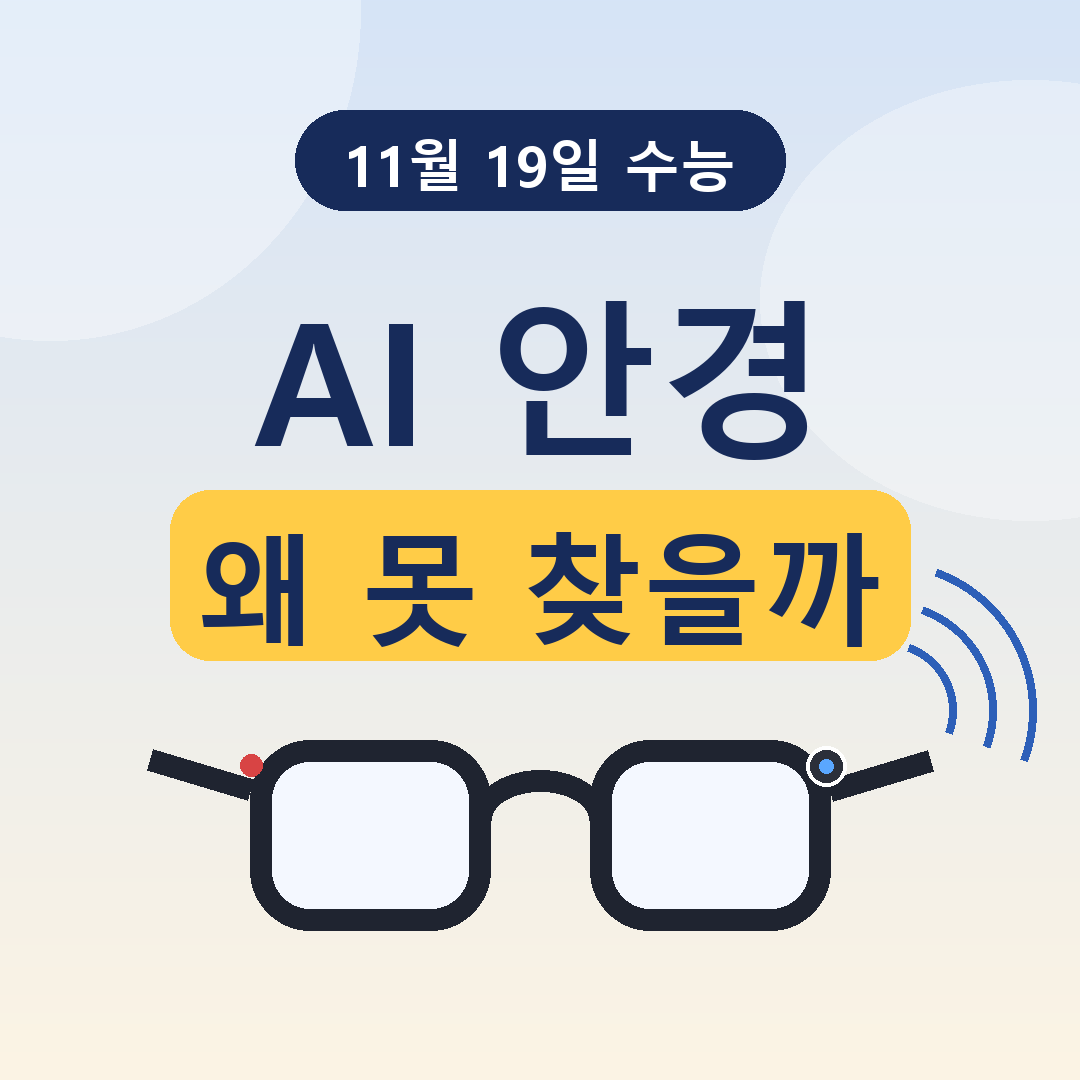
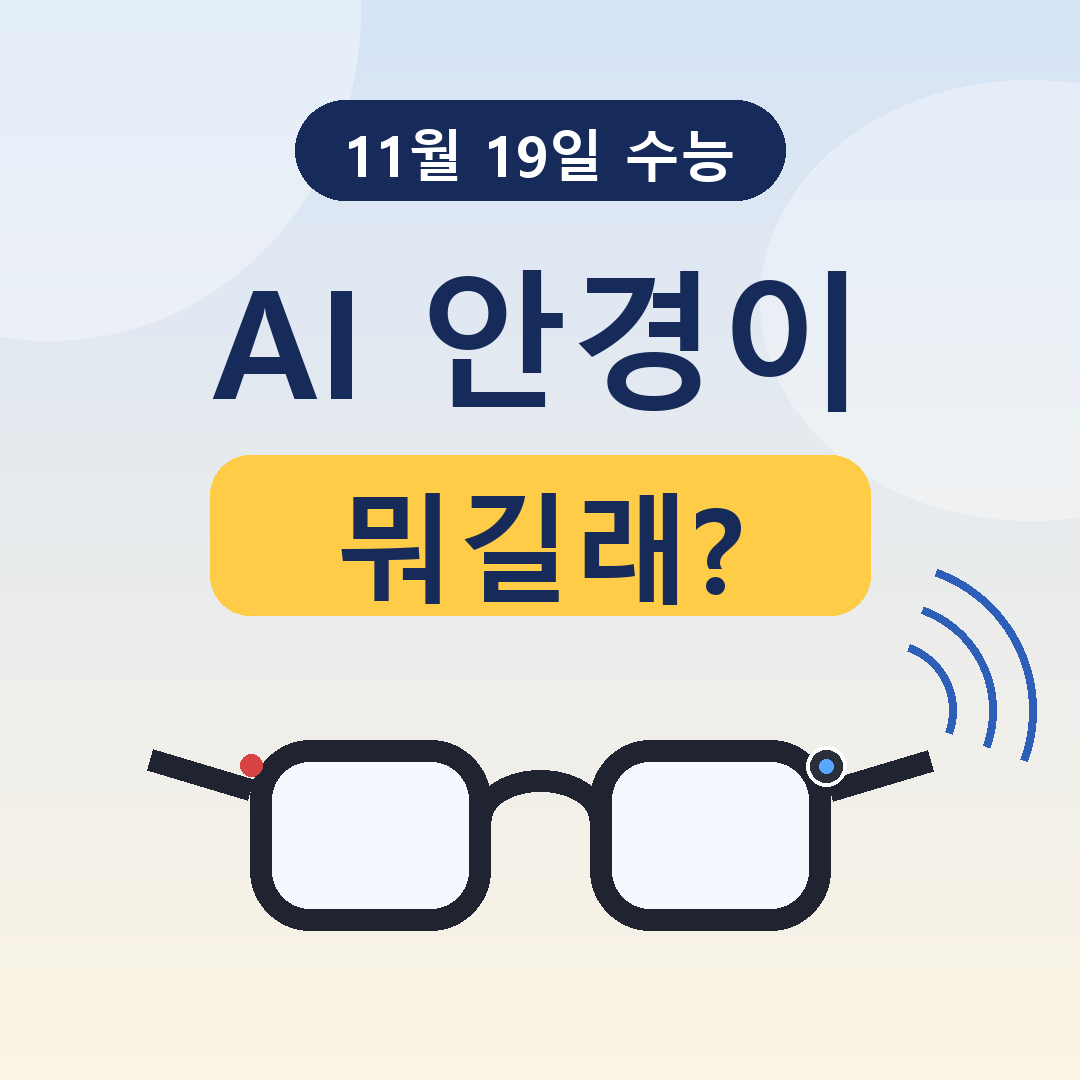
AI 안경 글 제목 변경: "AI 안경이 뭐길래 수능 시험장에서 문제가 될까"
- 찾기 어렵다는 느낌이 강한 기존 제목을 글 전체를 대표하는 제목으로 변경
- 도입부와 "왜 찾아내기 어려울까" 단락 첫 문장, 타이틀 이미지를 새 제목에 맞게 수정
- AGENTS.md: 제목 변경 이유와 제목 짓는 기준 기록

Changed region(s): [[0.1528, 0.2444, 0.8556, 0.6111], [0.275, 0.0917, 0.7333, 0.2139], [0.7028, 0.1528, 0.7333, 0.1833]]

diff --git a/문서/네이버-코딩가이드/20261115_AI안경-수능/index.html b/문서/네이버-코딩가이드/20261115_AI안경-수능/index.html
@@ -1,7 +1,7 @@
 <meta charset="utf-8">
 <!--
 [네이버 블로그 발행 메모]
-제목: 수능 시험장의 AI 안경, 왜 찾아내기 어려울까
+제목: AI 안경이 뭐길래 수능 시험장에서 문제가 될까
 카테고리: 컴퓨터/IT/모바일 관련 정보
 태그: #AI안경 #스마트안경 #스마트글라스 #수능 #2027수능 #수능부정행위 #수능유의사항 #수능반입금지물품 #AI안경원리
 발행 방법: 네이버 편집기에는 HTML 붙여넣기 기능이 없으므로, 이 파일을 브라우저로 연 다음
@@ -40,11 +40,11 @@
 
 <div style="max-width:720px;margin:0 auto;font-size:16px;line-height:1.9;color:#333;">
 
-<p style="color:#e60000;font-weight:bold;">[[ 이미지: 타이틀 - AI 안경 왜 못 찾을까 (01-타이틀.png) ]]</p>
+<p style="color:#e60000;font-weight:bold;">[[ 이미지: 타이틀 - AI 안경이 뭐길래 (01-타이틀.png) ]]</p>
 
 <p>11월 19일 수능을 앞두고 교육부가 수험생 유의사항을 안내했습니다. 매년 나오는 내용인데, 올해는 맨 앞에 낯선 단어가 하나 있었습니다. <b>AI 스마트안경</b>입니다.</p>
 
-<p>휴대전화나 스마트워치는 알겠는데, 안경이 왜 문제일까 싶었습니다. 벗으라고 하면 되는 것 아닌가 하는 생각도 들었습니다. 그런데 기사를 찾아보니 그렇게 간단한 문제가 아니었습니다. 그래서 AI 안경이 어떤 물건이고, 왜 찾아내기 어렵다고 하는지 정리해 봤습니다.</p>
+<p>휴대전화나 스마트워치는 알겠는데, 안경이 왜 문제일까 싶었습니다. 벗으라고 하면 되는 것 아닌가 하는 생각도 들었습니다. 그런데 기사를 찾아보니 그렇게 간단한 문제가 아니었습니다. 그래서 AI 안경이 어떤 물건이고 어떻게 작동하는지, 시험장에서는 왜 문제가 되는지 정리해 봤습니다.</p>
 
 <p>&nbsp;</p>
 <hr style="border:none;border-top:1px solid #cfcfcf;margin:8px 0;">
@@ -104,7 +104,7 @@
 <hr style="border:none;border-top:1px solid #cfcfcf;margin:8px 0;">
 <h2 style="font-size:22px;margin:40px 0 12px;">왜 찾아내기 어려울까</h2>
 
-<p>이 글을 쓰게 된 이유가 이 부분입니다. 찾아보니 이유가 세 가지쯤 됐습니다.</p>
+<p>그럼 감독할 때 찾아내면 되지 않을까 싶었는데, 찾아보니 그것도 쉽지 않다고 합니다. 이유는 세 가지쯤 됐습니다.</p>
 
 <p>&nbsp;</p>
 <h3 style="font-size:18px;margin:28px 0 8px;">1. 겉모습이 일반 안경과 비슷하다</h3>

diff --git a/AGENTS.md b/AGENTS.md
@@ -100,7 +100,8 @@
 - 히스토리 가이드, 이코노미 가이드는 아직 이 저장소에서 쓴 글이 없다. 주제는 사용자와 정한다.
 
 ## 진행 상황 (2026-11-15 기준)
-- 2026-11-15: `문서/네이버-코딩가이드/20261115_AI안경-수능/index.html` 작성("수능 시험장의 AI 안경, 왜 찾아내기 어려울까", 카테고리 컴퓨터/IT/모바일 관련 정보). AI 안경 설명 → 작동 원리 → 올해 적발 사례 → 찾기 어려운 이유 3가지 → 왜 문제인가 → 이번 수능 제재(표) → 앞으로 → 정리. **수능이 11/19라 18일 전 발행해야 의미가 있다.**
+- 2026-11-15: `문서/네이버-코딩가이드/20261115_AI안경-수능/index.html` 작성("AI 안경이 뭐길래 수능 시험장에서 문제가 될까", 카테고리 컴퓨터/IT/모바일 관련 정보).
+  - 처음 제목은 "수능 시험장의 AI 안경, 왜 찾아내기 어려울까"였는데, 사용자가 "찾기 어렵다는 느낌이 너무 강하다"고 해서 바꿨다. 글 전체를 아우르는 "~가 뭐길래" 형식으로 바꾸고, 도입부 문장과 타이틀 이미지("AI 안경이 / 뭐길래?")도 함께 고쳤다. 제목은 글의 한 부분이 아니라 전체 내용을 대표하게 짓는다. AI 안경 설명 → 작동 원리 → 올해 적발 사례 → 찾기 어려운 이유 3가지 → 왜 문제인가 → 이번 수능 제재(표) → 앞으로 → 정리. **수능이 11/19라 18일 전 발행해야 의미가 있다.**
   - 이미지 9장이 모두 `images/`에 있다(AI 제작 01·03·04·05·06·08, ChatGPT 제작 02 사진풍·07 3D·09 만화풍). 대기 중인 이미지 요청 없음. **남은 일은 사용자의 네이버 발행뿐이다.**
   - 경과: ChatGPT를 잠시 쓸 수 없어 02·07·09를 AI가 Pillow로 그린 그림으로 대체했지만, 사용자가 "별로 안 좋다"고 해서 다시 ChatGPT에 요청해 바꿔 넣었다(2026-11-15). 대체 그림은 삭제했다.
   - 교훈: 만화·사진풍·3D·장면 그림은 AI가 Pillow로 그리면 품질이 떨어진다. ChatGPT를 쓸 수 없을 때도 요청은 `이미지요청.md`에 남겨 두고, 대체 그림은 임시로만 쓰며 그 사실을 사용자에게 알린다. AI가 만드는 이미지는 타이틀·도식·표·차트처럼 글자와 도형 위주인 것으로 한정한다.
